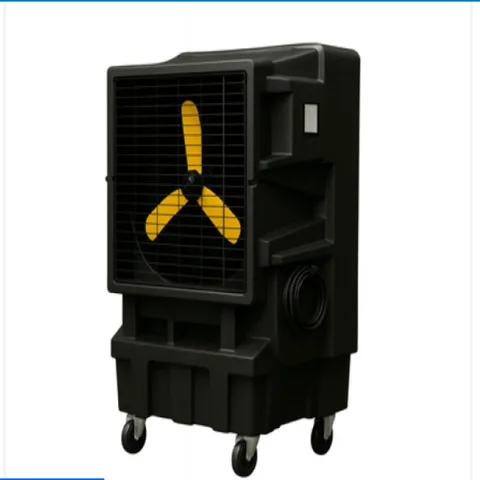
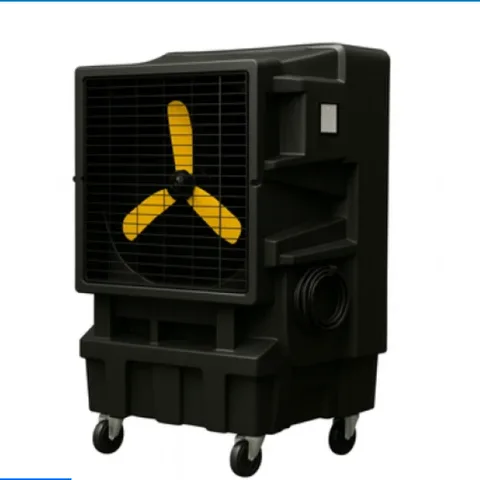
Photo rafraîchisseur : fond beige chaud + cohérence visuelle (#1193)
- Retraitement image : fond beige (#EDE8E0) identique aux cartes PortaSplit/clim
- Crop carré centré (le produit était tronqué à droite)
- index.html : pcard-cover → pcard-photo (même classe que les autres cartes)
- catalogue.html : object-fit:cover sans padding ni fond blanc

Claude-Session: https://claude.ai/code/session_01R2oDpYr9cPe31jgqp6HtCe

diff --git a/index.html b/index.html
@@ -601,7 +601,7 @@ section.hiver .lead{color:rgba(255,255,255,.7);margin-top:20px;max-width:46ch;ma
           <div class="pcard-meta"><div><h3>Climatiseur mobile</h3><p>9 000 à 12 000 BTU · chambre ou salon</p></div><span class="price">12 → 8 €/j</span></div>
         </a>
         <a href="/reservation-rafraichisseur" class="pcard">
-          <div class="pcard-img"><div class="ph ph-2"><img class="pcard-cover" src="/rafraichisseur.webp" srcset="/rafraichisseur-480.webp 480w, /rafraichisseur.webp 600w" sizes="(min-width:768px) 40vw, 90vw" alt="Rafraîchisseur d'air adiabatique Loc'Air" loading="lazy" decoding="async" width="600" height="600"/></div><span class="tag">Grands espaces</span></div>
+          <div class="pcard-img"><div class="ph ph-2"><img class="pcard-photo" src="/rafraichisseur.webp" srcset="/rafraichisseur-480.webp 480w, /rafraichisseur.webp 600w" sizes="(min-width:768px) 40vw, 90vw" alt="Rafraîchisseur d'air adiabatique Loc'Air" loading="lazy" decoding="async" width="600" height="600"/></div><span class="tag">Grands espaces</span></div>
           <div class="pcard-meta"><div><h3>Rafraîchisseur d'air</h3><p>Terrasses, ateliers, événements</p></div><span class="price">36 €/j</span></div>
         </a>
       </div>

diff --git a/catalogue.html b/catalogue.html
@@ -427,7 +427,7 @@ a{color:inherit;text-decoration:none}
     <!-- CARD 03 : Rafraîchisseur -->
     <article class="lcard" id="rafraichisseur">
       <div class="lcard-img">
-        <img src="/rafraichisseur.webp" srcset="/rafraichisseur-480.webp 480w, /rafraichisseur.webp 600w" sizes="260px" alt="Rafraîchisseur d'air adiabatique Loc'Air" loading="lazy" decoding="async" width="600" height="600" style="object-fit:contain;object-position:center;padding:12px;background:#fff"/>
+        <img src="/rafraichisseur.webp" srcset="/rafraichisseur-480.webp 480w, /rafraichisseur.webp 600w" sizes="260px" alt="Rafraîchisseur d'air adiabatique Loc'Air" loading="lazy" decoding="async" width="600" height="600" style="object-fit:cover;object-position:center"/>
         <span class="lcard-sticker lcard-sticker--light">Grands espaces · Pro</span>
       </div>
       <div class="lcard-info">
